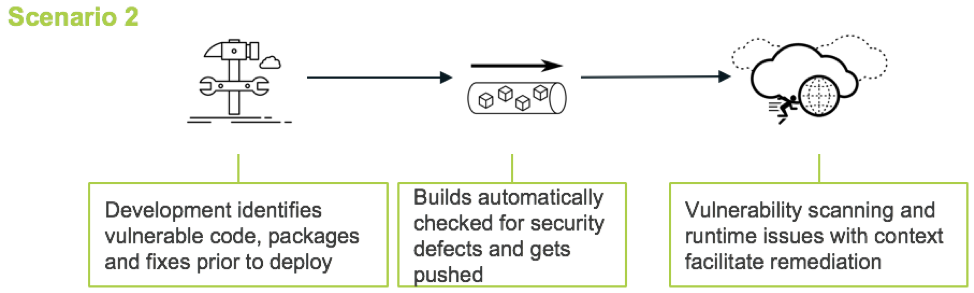
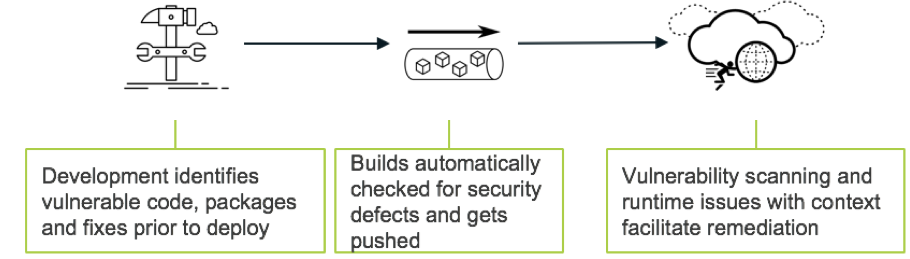
minor cleanup (#10)
* minor cleanup

* remove stale graphic

diff --git a/README.md b/README.md
@@ -4,8 +4,8 @@
 [![GitPitch](https://gitpitch.com/assets/badge.svg)](https://gitpitch.com/hotpeppersec/shifting_left/master)
 [![contributions welcome](https://img.shields.io/badge/contributions-welcome-brightgreen.svg)](https://github.com/hotpeppersec/shifting_left/fork)
 
-![Shift_Left](https://github.com/hotpeppersec/shifting_left/blob/master/assets/img/shift_left.png)<br>*Shift Left*
-
 Tactical considerations for [implementing a Shift-left strategy](https://blog.paloaltonetworks.com/2019/07/4-practical-steps-shift-left-security/) for your team.
 
 - [Click this link to view slides in GitPitch](https://gitpitch.com/hotpeppersec/shifting_left/)
+
+![Shift_Left](https://github.com/hotpeppersec/shifting_left/blob/master/assets/img/shift_left.png)<br>*Shift Left*

diff --git a/PITCHME.md b/PITCHME.md
@@ -83,8 +83,8 @@ Note:
 Shift What?
 @snapend
 
-@snap[midpoint span-60]
-![shift](assets/img/shift_graphic.png)
+@snap[midpoint span-80]
+![shift](assets/img/shift_left.png)
 @snapend
 
 @snap[south-west span-35 text-08]
@@ -101,7 +101,6 @@ Shift What?
 
 Note:
 
-- Cool graphic stolen from testingxperts.com, so be sure to check them out since they are an unwitting sponsor.
 - This talk comes at it from the viewpoint of a sec person who needs to get the dev teams on board.
 - we often hear that sec is **everyones responsibility**
   - Resolve issues sooner than w/traditional methods.
